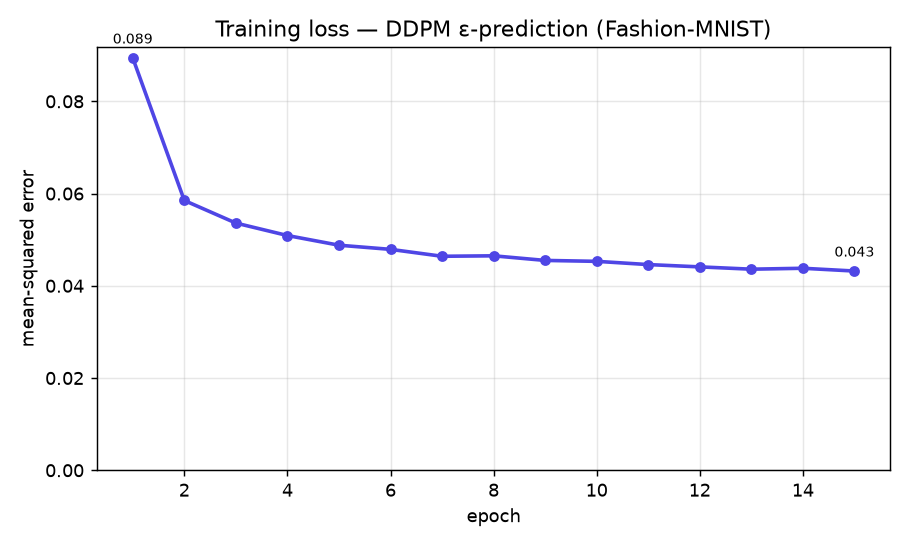
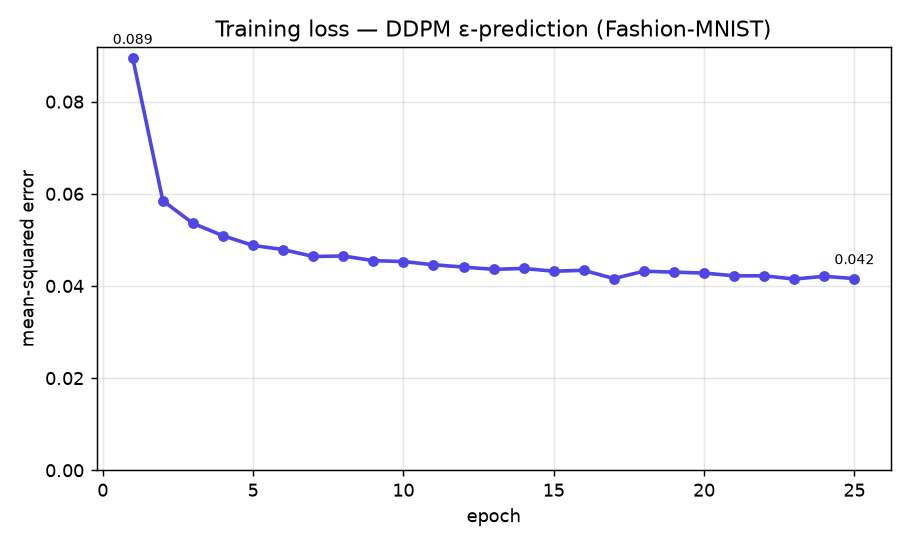
Train to 25 epochs: refresh grid, curve, FID (26.3), batch FID real update
- Continued training 16->25 (loss 0.043 -> 0.042); grid + curve regenerated
- FID improved 27.2 -> 26.3 (2048 samples, guidance 1.5)
- scripts/fid.py: feed real images through Inception in batches (a single
  2048-image pass could OOM); README epoch/loss/FID references updated

diff --git a/scripts/fid.py b/scripts/fid.py
@@ -56,7 +56,9 @@ def main() -> None:
     real = ds.data[:n].float() / 255.0
     real = F.interpolate(real[:, None], size=cfg.image_size, mode="bilinear", align_corners=False)
     real = real * 2 - 1  # -> [-1,1]
-    fid.update(to_uint8_rgb(real), real=True)
+    # Feed real images through Inception in batches too (a single 2048-image pass spikes RAM).
+    for i in range(0, n, args.batch):
+        fid.update(to_uint8_rgb(real[i:i + args.batch]), real=True)
     print(f"registered {n} real images")
 
     # --- generated: n samples spread evenly across the 10 classes ---

diff --git a/README.md b/README.md
@@ -15,7 +15,7 @@ small enough to train on an Apple-Silicon MacBook (MPS), no cloud GPU required.
 
 ![samples](assets/samples.png)
 
-*Generated samples after 15 epochs on an M-series Mac (MPS). One row per class — t-shirt,
+*Generated samples after 25 epochs on an M-series Mac (MPS). One row per class — t-shirt,
 trouser, pullover, dress, coat, sandal, shirt, sneaker, bag, ankle boot — each image synthesised
 from pure noise (DDIM, 50 steps, guidance 1.5). **Pretrained weights:**
 [huggingface.co/mbsdeepak/text-diffusion-fashion-mnist](https://huggingface.co/mbsdeepak/text-diffusion-fashion-mnist).*
@@ -37,12 +37,12 @@ from pure noise (DDIM, 50 steps, guidance 1.5). **Pretrained weights:**
 
 ![training curve](assets/training_curve.png)
 
-Training loss (DDPM ε-prediction MSE) over 15 epochs on Apple-Silicon MPS — converges from
-**0.089 → 0.043**. Reproduce with `python -m scripts.plot_curve` (reads the committed
+Training loss (DDPM ε-prediction MSE) over 25 epochs on Apple-Silicon MPS — converges from
+**0.089 → 0.042**. Reproduce with `python -m scripts.plot_curve` (reads the committed
 [`assets/loss_history.csv`](assets/loss_history.csv)).
 
-**FID ≈ 27.2** — 2048 generated samples vs the Fashion-MNIST test set at guidance 1.5 (lower is
-better). Reproduce with `python -m scripts.fid`.
+**FID ≈ 26.3** — 2048 generated samples vs the Fashion-MNIST test set at guidance 1.5 (lower is
+better; down from 27.2 at 15 epochs). Reproduce with `python -m scripts.fid`.
 
 > ⚠ **Read FID carefully.** Standard FID uses ImageNet-InceptionV3 on 299×299 RGB, so this
 > absolute value (32×32 grayscale clothing, upscaled) is **not** comparable to natural-image FID
@@ -180,7 +180,7 @@ python app.py          # opens http://127.0.0.1:7860
   low-resolution image information too fast.
 - **EMA horizon must match training length** — EMA weights usually give cleaner samples, but the
   decay sets an averaging window (`1/(1-decay)` steps). At `0.9999` that's ~10k steps, so on this
-  short 15-epoch (~7k-step) run the EMA still lagged the live weights and produced noise — the
+  short 25-epoch (~12k-step) run the EMA still lagged the live weights and produced noise — the
   **raw** weights were sharper. Lesson learned; sampling defaults to `--weights model` here. A
   longer run (or `ema_decay≈0.999`) would flip this back.
 - **Caching CLIP embeddings** — because the label set is fixed, running the text encoder once
@@ -189,7 +189,7 @@ python app.py          # opens http://127.0.0.1:7860
   little for images this small.
 - **Guidance scale must match model strength** — my first grid used CFG 3.0 and looked like
   patchy blobs; the samples only became recognizable garments at **CFG 1.5**. Classifier-free
-  guidance extrapolates `ε_cond − ε_uncond`, and on a small, 15-epoch model that extrapolation
+  guidance extrapolates `ε_cond − ε_uncond`, and on a small, lightly-trained model that extrapolation
   amplifies artifacts. Low guidance (1.0–1.5) is the right regime here; default is now 1.5.
 
 ## Honest limitations
